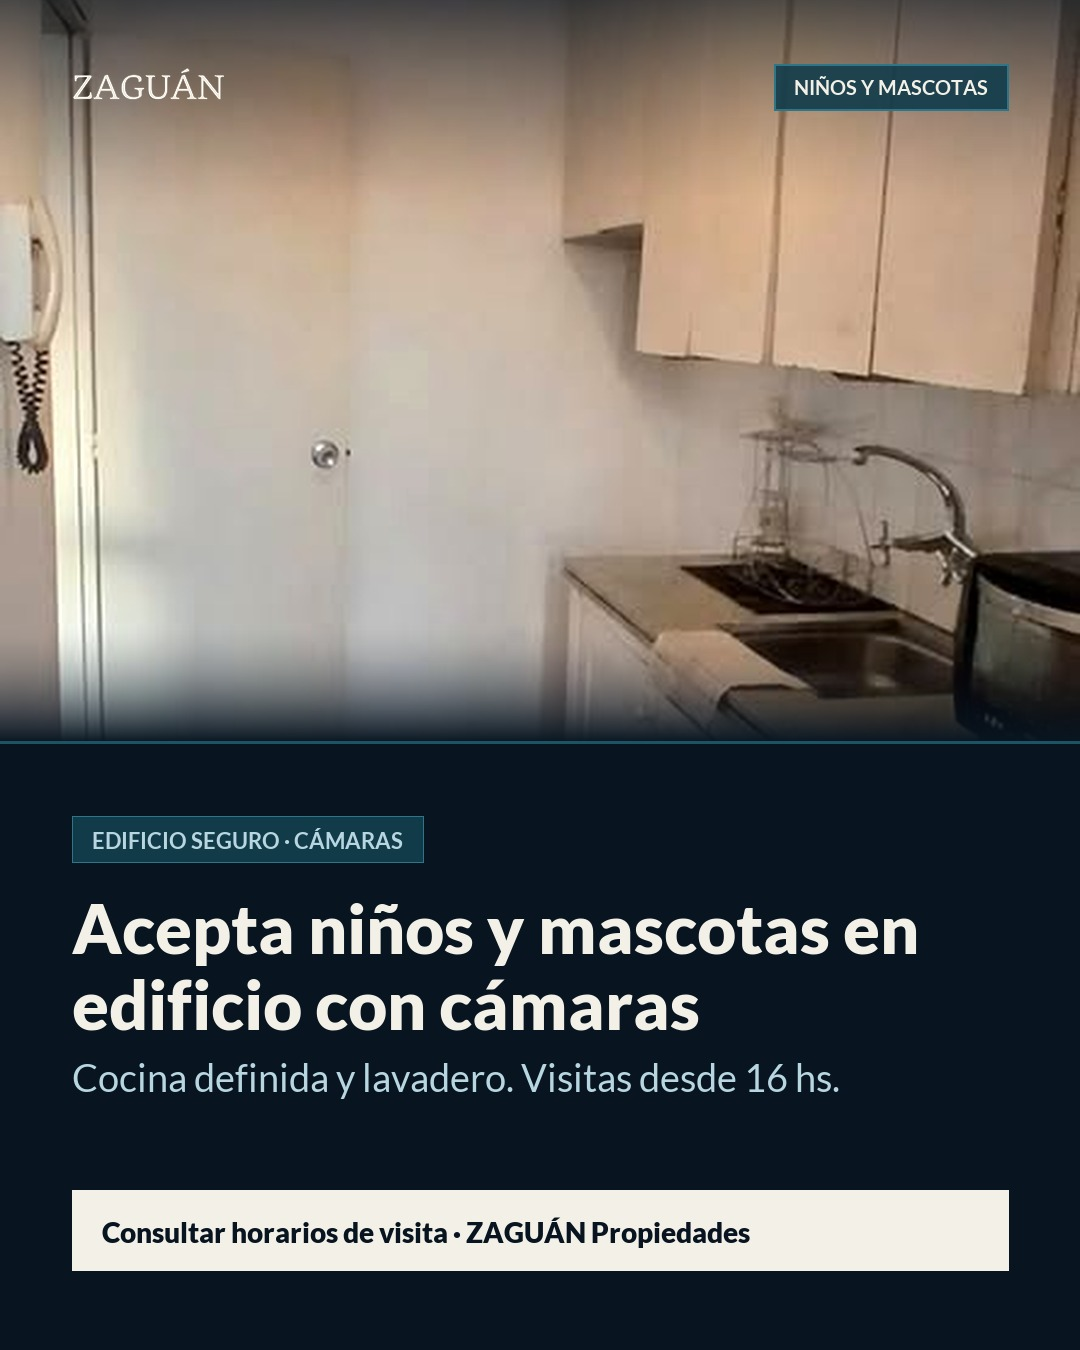
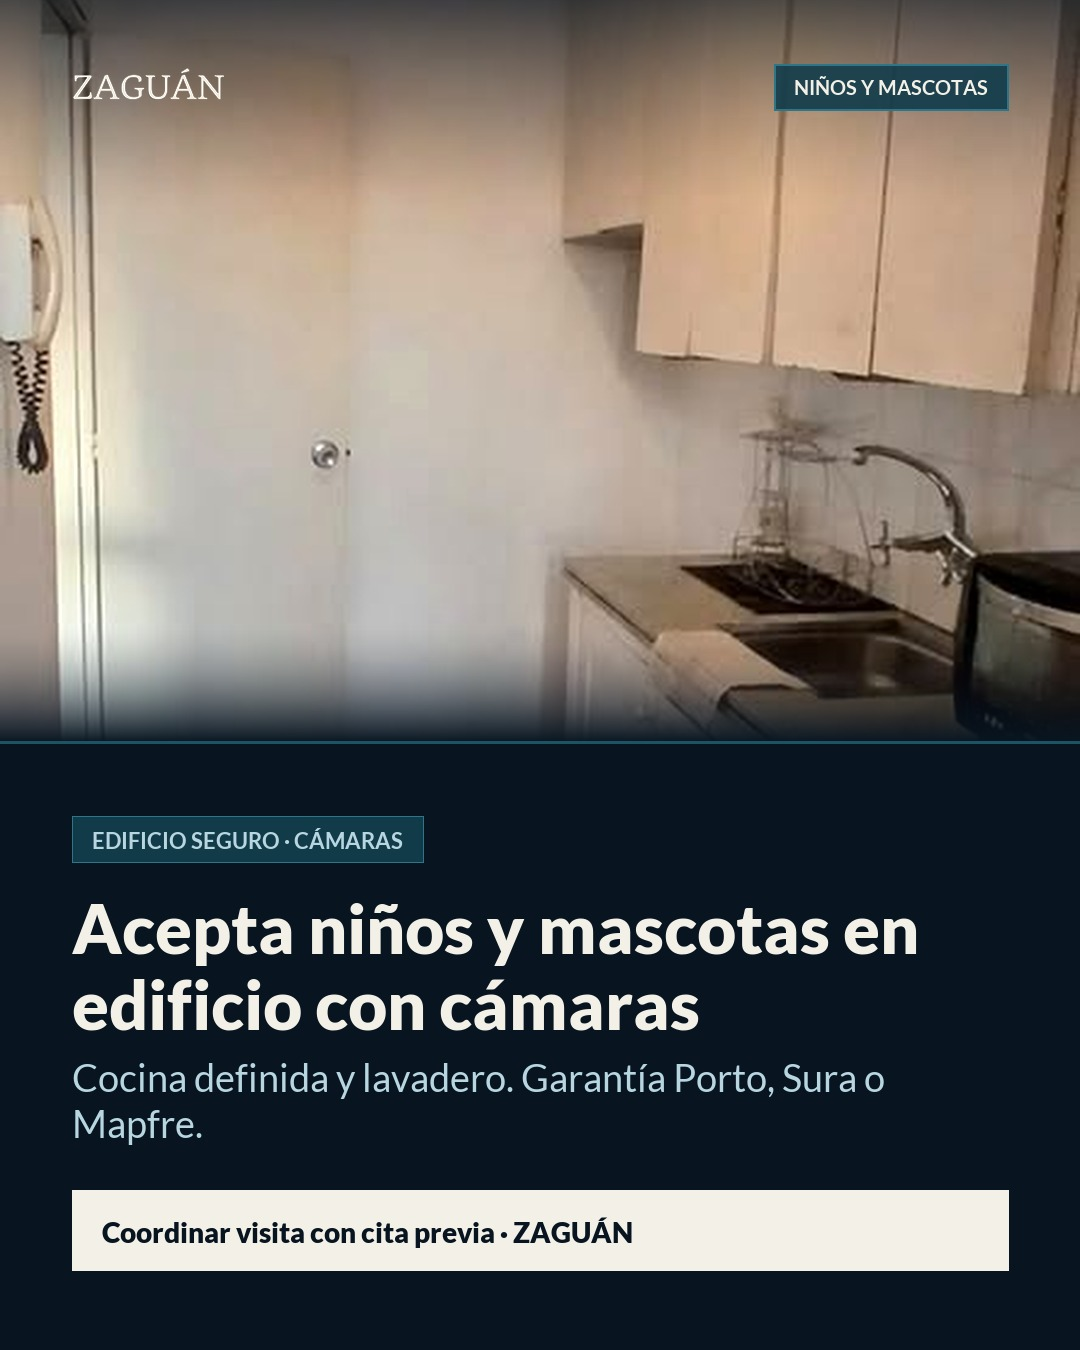
fix(ZAG-ALQ-07): eliminar horario interno 16hs y exigir aduana aseguradora en copias/ads

Changed region(s): [[0.1222, 0.9022, 0.7028, 0.9333], [0.4889, 0.7778, 0.825, 0.8089], [0.0611, 0.8089, 0.1833, 0.84]]

diff --git a/tools/pokayoke_zaguan.py b/tools/pokayoke_zaguan.py
@@ -92,6 +92,18 @@ def audit_text(text: str, vertical: str, primer_contacto: bool = False) -> list[
         if "zaguanpropiedades.com" not in text.lower():
             errs.append("BIENVENIDA_PASIVA inválida: falta link vivo de autoservicio a zaguanpropiedades.com.")
 
+    # Horarios internos del propietario (SOLO agenda interna de Ariana — prohibido en público)
+    owner_sched = re.search(
+        r"\b(?:desde\s+las\s+\d{1,2}|todos\s+los\s+d[ií]as\s+desde|\d{1,2}:00\s*hs|\d{1,2}\s*hs\+?)",
+        text,
+        re.IGNORECASE,
+    )
+    if owner_sched:
+        errs.append(
+            f"FUGA DE HORARIO INTERNO DEL DUEÑO ('{owner_sched.group(0)}'): "
+            "la disponibilidad del propietario es solo para agenda interna; en público usar 'con cita previa'."
+        )
+
     return errs
 
 
